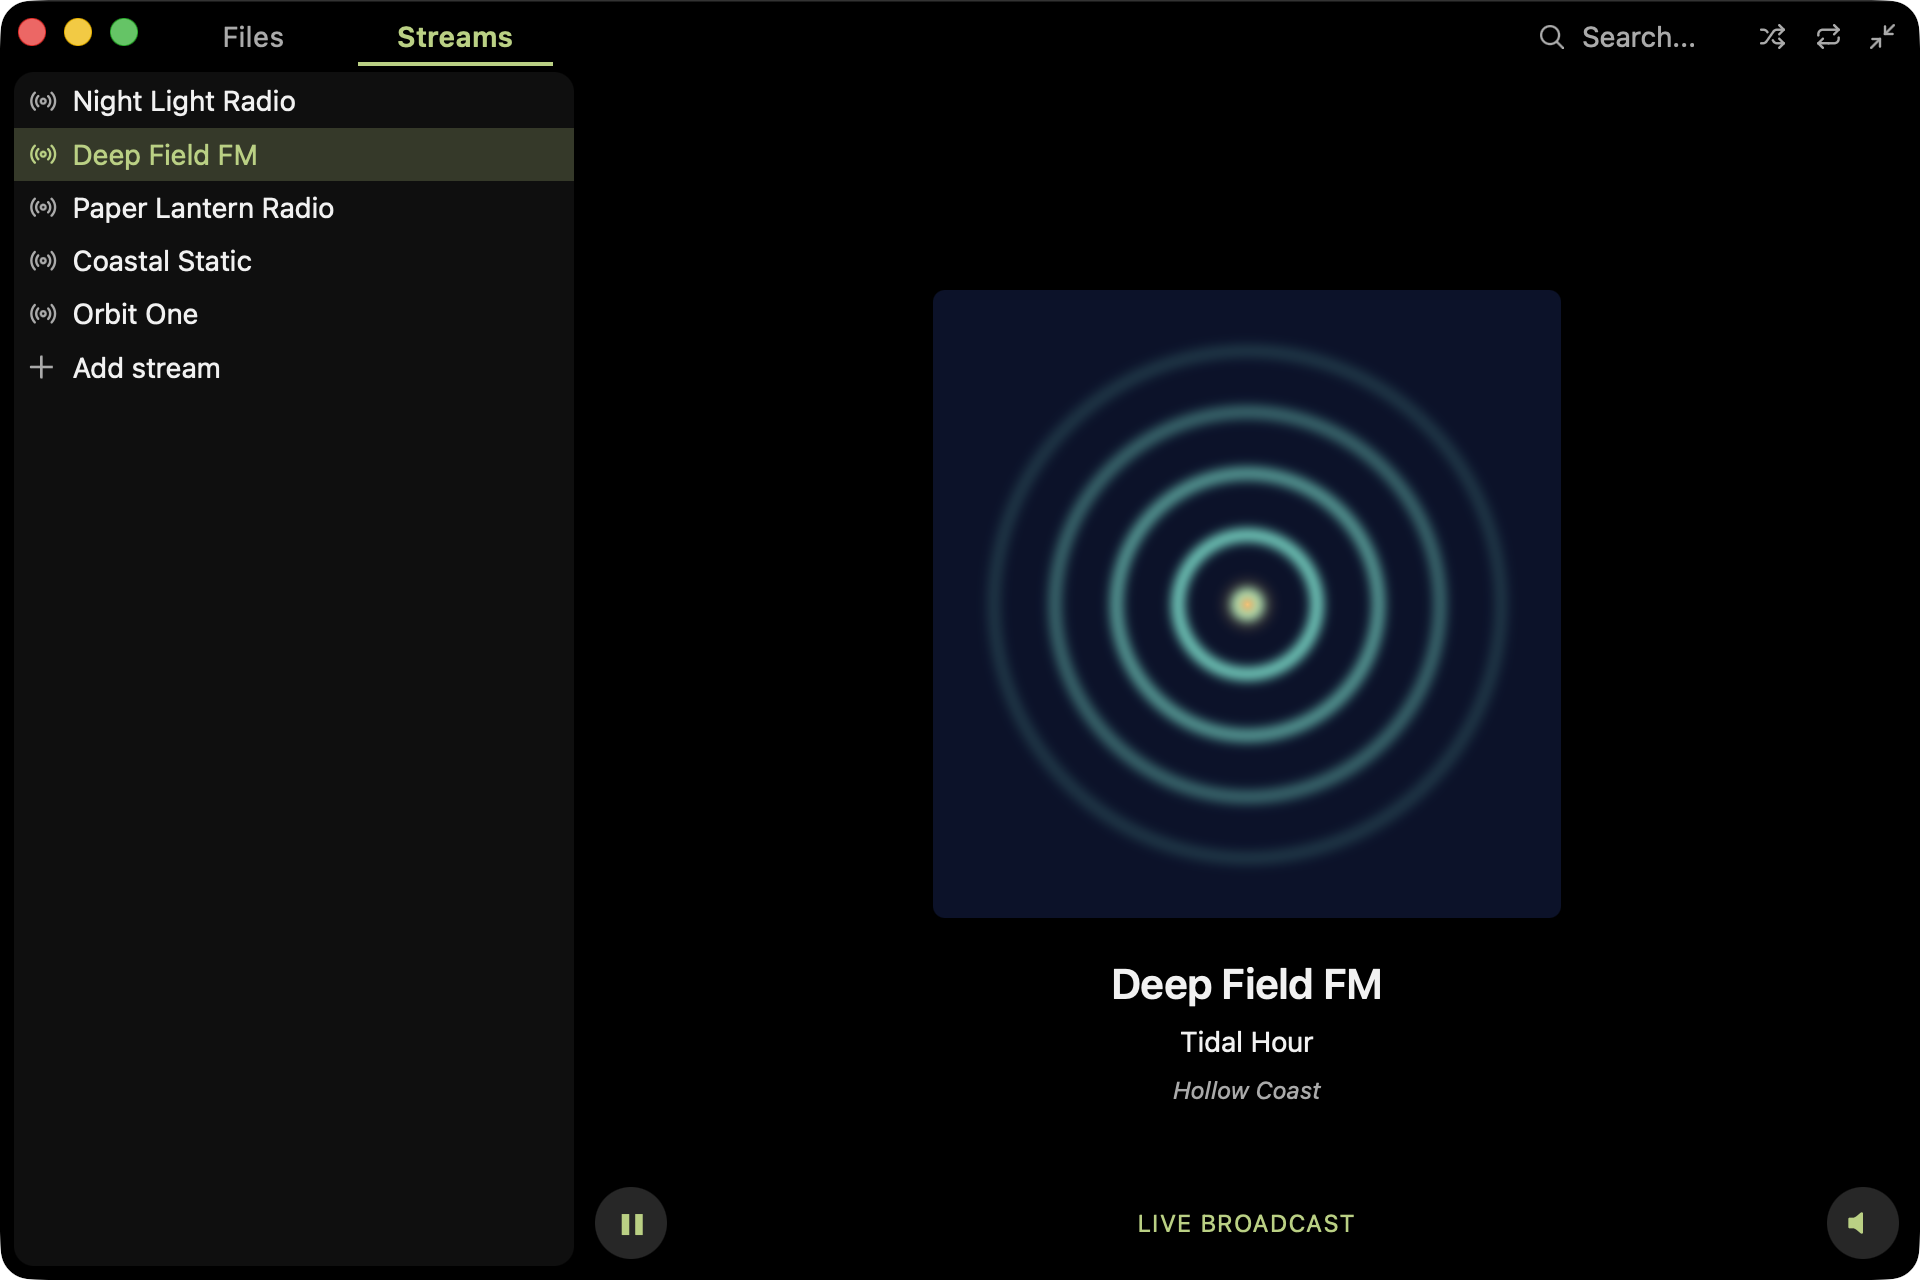
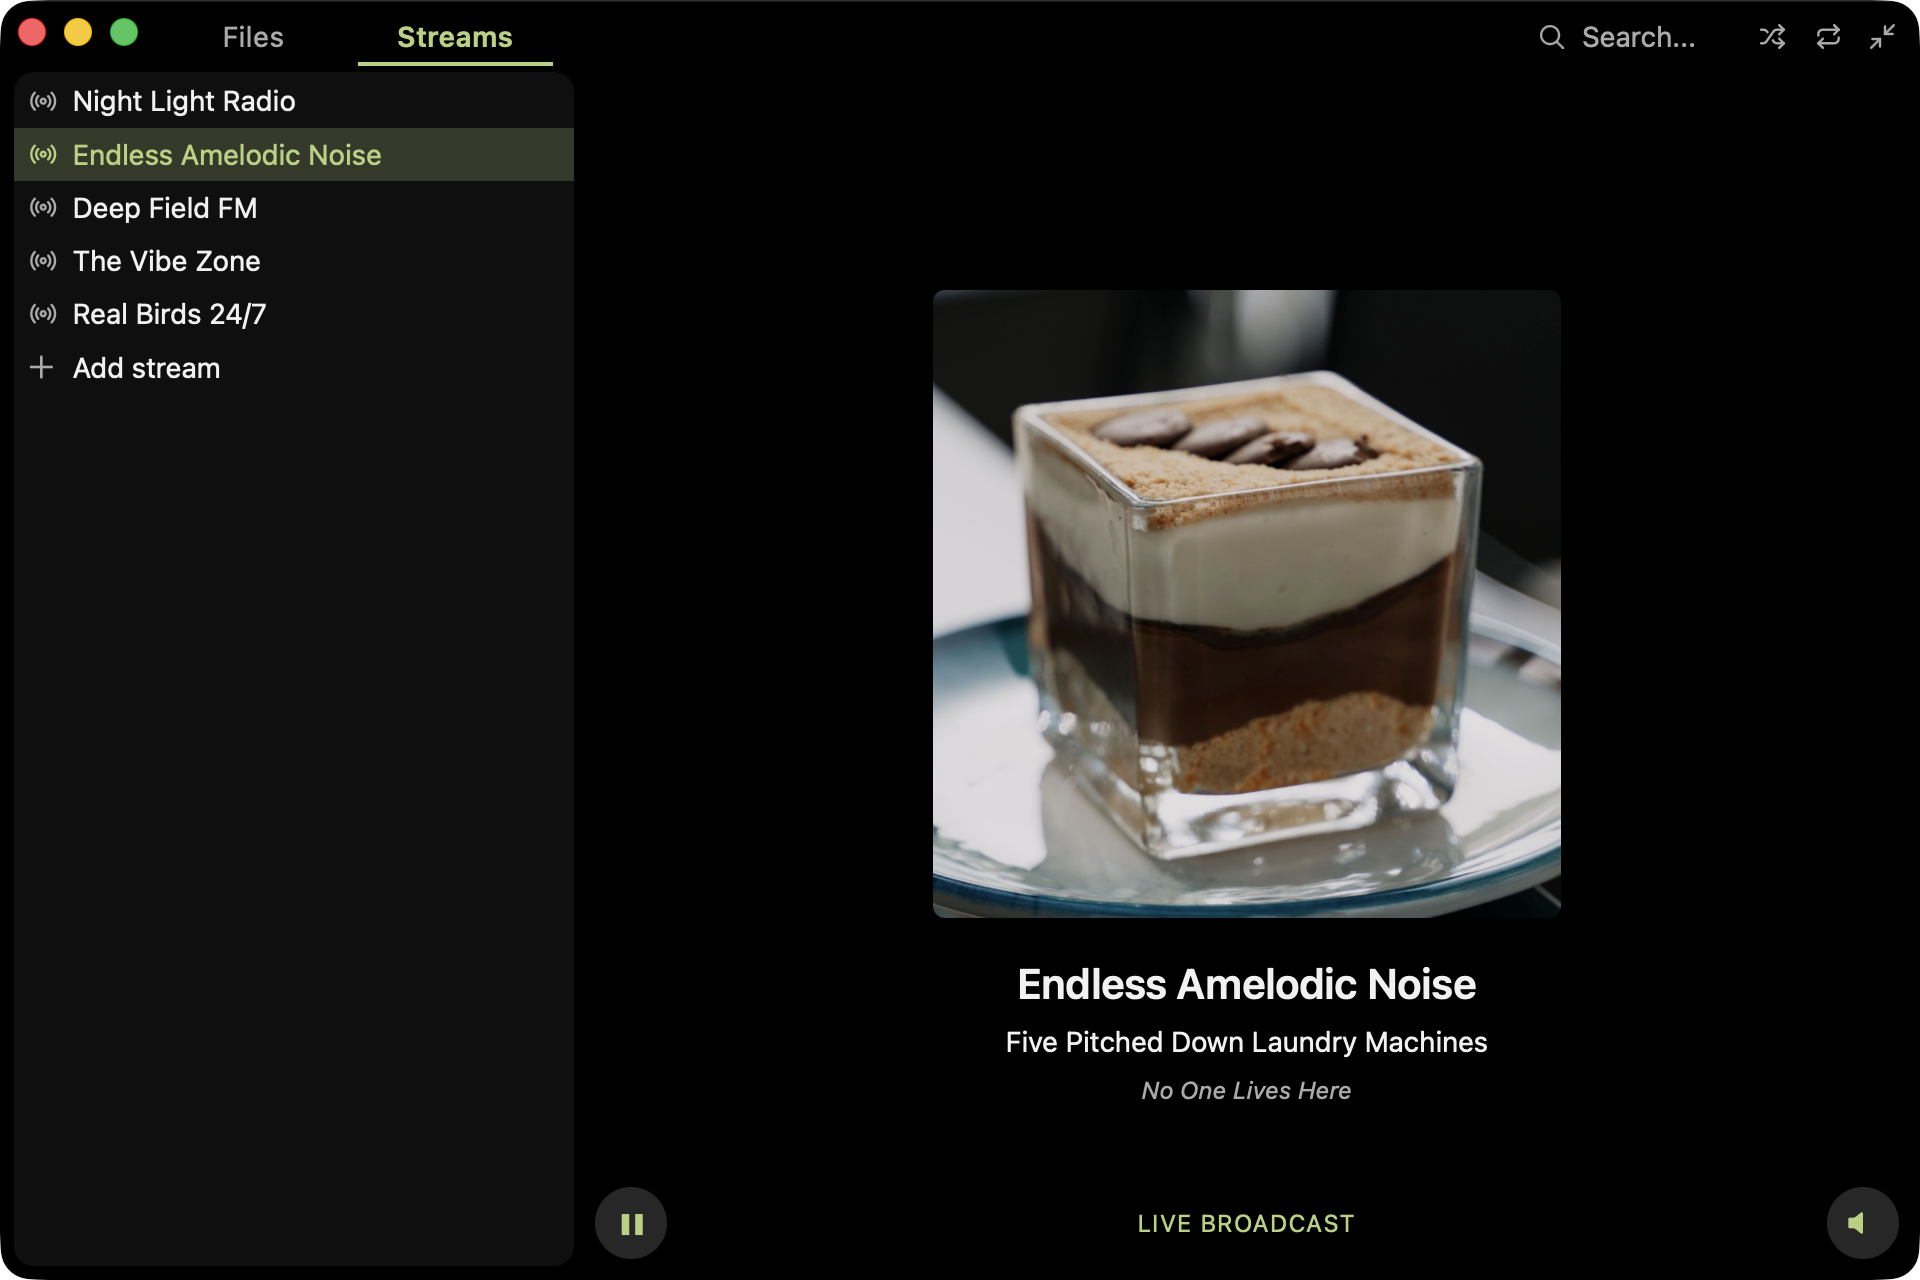
Use real photographs as screenshot artwork

diff --git a/apps/desktop/e2e/screenshots/README.md b/apps/desktop/e2e/screenshots/README.md
@@ -36,6 +36,11 @@ with a fresh profile under `.screenshots/`. Settings, metadata DB, and the defau
 stream list all use that directory. The profile override is honored only in a
 debug build launched with `PUDDING_E2E_PORT`.
 
+The artists, albums and tracks in that library are invented; the cover art is
+not. Every album carries one of the photographs tracked in `apps/desktop/images`,
+because a synthesised pattern reads as filler at the size Now Playing gives it on
+a website.
+
 `scenes.mjs` is the manifest and recipe collection. Each recipe declares its
 logical window size, setup function, and repository-relative destination paths.
 It drives the same app actions as e2e tests, asserts the expected library and
@@ -68,7 +73,11 @@ that no queue navigation remains. The Files panel sits on its index — the libr
 views plus the Playlists section, where the fixture library's Favorites and
 Synthwave playlists appear. Shuffle, repeat, autoadvance, ReplayGain,
 sample-rate matching, the equalizer, and the visualizer are disabled explicitly.
-The `light` scene reuses that recipe under a light theme.
+It is also the one scene that arrives on a different album (`HERO_ALBUM`), so the
+homepage's artwork is not the cover every documentation image already carries:
+the fixture library gives that one album its own photograph, and no other scene
+features it. The `light` scene reuses the recipe under a light theme, on the
+album the rest of the documentation shows.
 Documentation references the website asset directly; it needs no extra copy.
 
 The `columns` scene is the one that ships a layout rather than a view: a stored
@@ -119,6 +128,12 @@ audio every 8192 bytes. The engine reaches it through `icy.rs` exactly the way i
 reaches a real station, and the fixture stream list points one station at it (and
 carries its art on the usual `tvg-logo` attribute). The other four stay example
 URLs nothing dials.
+
+The station's art is another tracked photograph, served under its own extension
+and content type. It is deliberately not the album covers' pixel size:
+`naturalWidth` is the only thing the scene can use to tell the station's own art
+apart from a cover left over from the paused track, so if either image is
+replaced the two sizes have to stay different.
 
 The audio is the app's own bundled `pudding sample.mp3`, tags stripped off both
 ends so its frame region loops end to end. None of it reaches a pixel — every

diff --git a/apps/desktop/README.md b/apps/desktop/README.md
@@ -138,8 +138,8 @@ selecting one screenshot, reviewing differences, and adding new recipes.
 
 ## Screenshot library
 
-Generate a deterministic library of fictional artists, albums, tracks, and
-abstract cover art with no third-party tools:
+Generate a deterministic library of fictional artists, albums, and tracks,
+covered by the project's own photography, with no third-party tools:
 
 ```sh
 pnpm gen:screenshot-library
@@ -148,7 +148,8 @@ pnpm gen:screenshot-library
 The default output is `~/Pudding Screenshot Library`. Pass a different location
 after `--`, for example `pnpm gen:screenshot-library -- --out /tmp/pudding-mock`.
 The generated WAV files have realistic durations, a short preview tone, complete
-metadata, and embedded cover art. The full library is about 120 MB.
+metadata, and, as embedded cover art, the photographs tracked in
+`apps/desktop/images`. The full library is about 120 MB.
 
 ## AI Disclaimer
 
